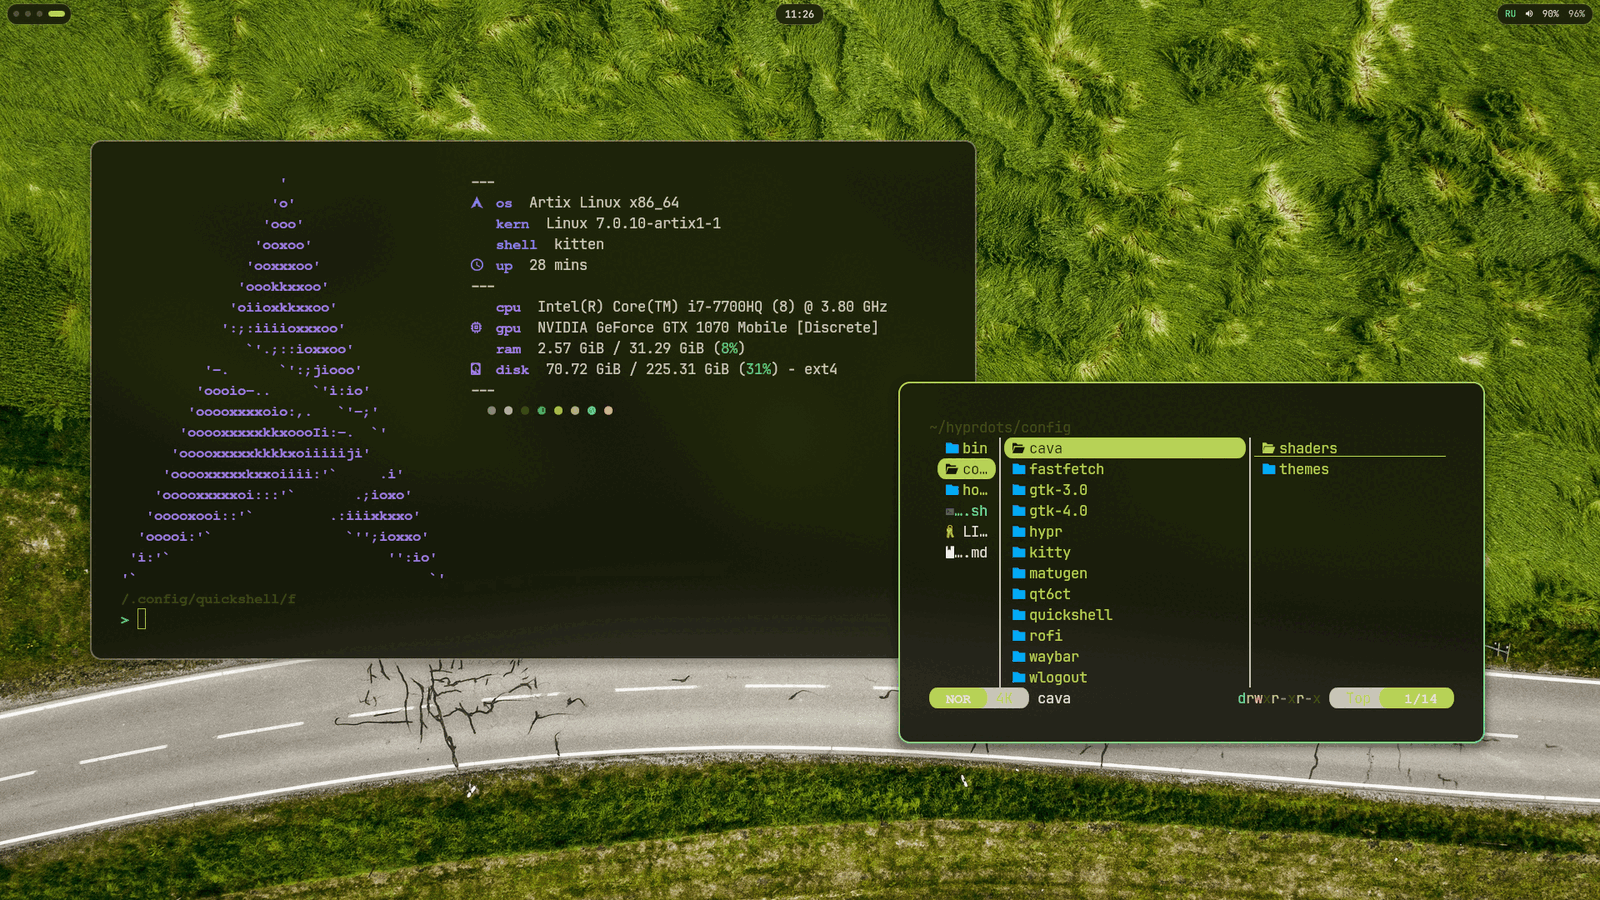
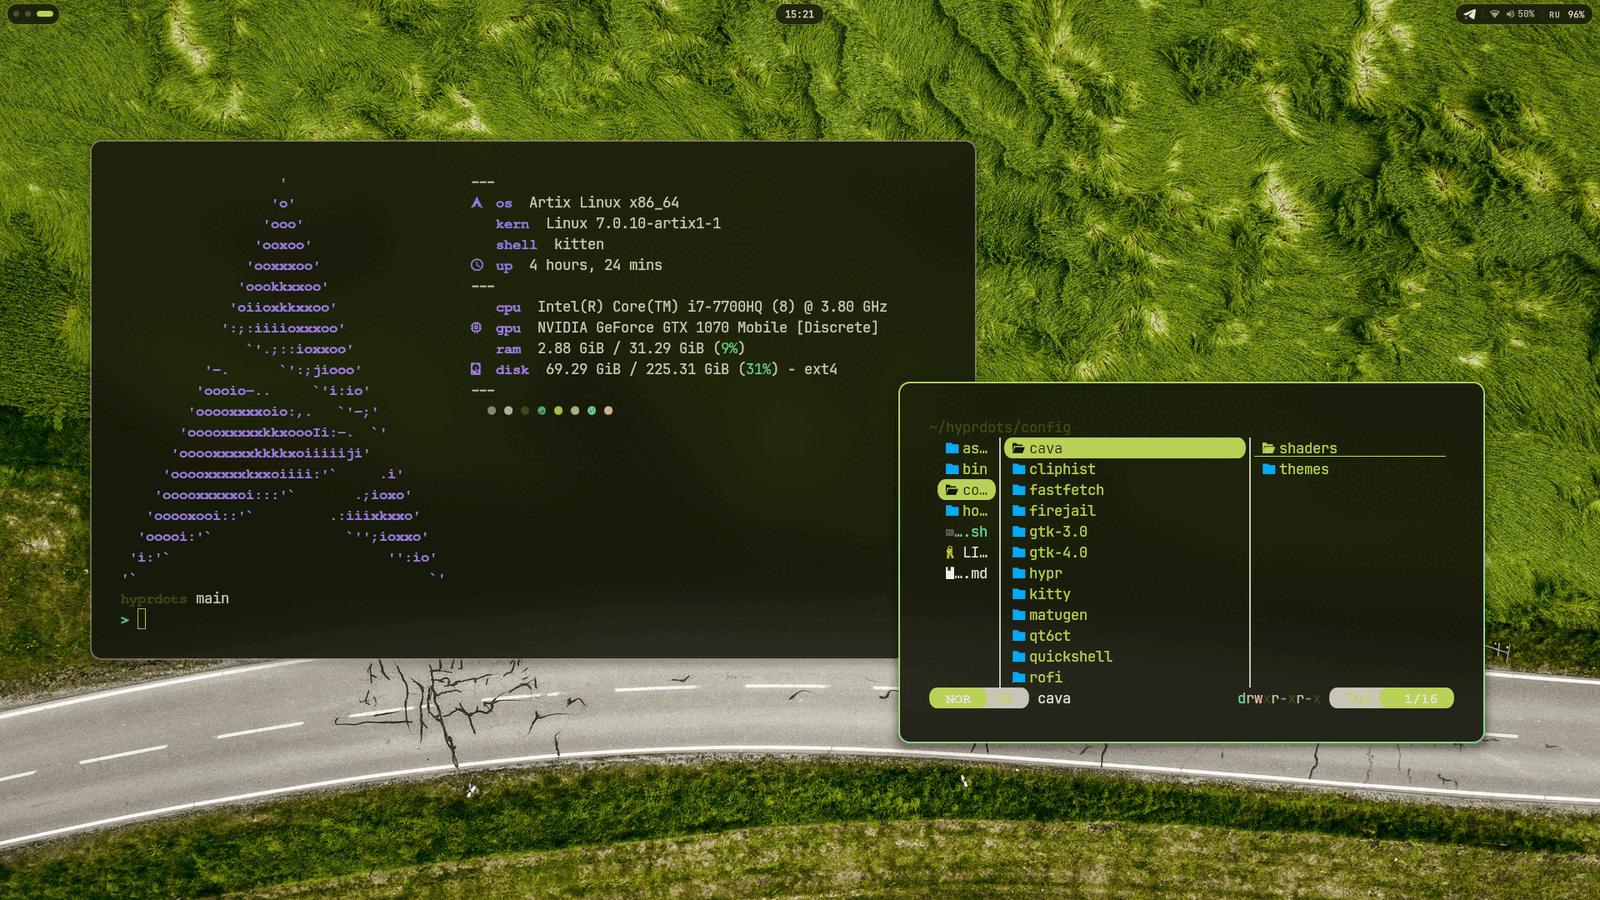
Idle timer with an inhibit list, Wi-Fi throughput, fresh screenshots
hypridle locks after 50 minutes and blanks the panels five minutes later.
Both go through idle-guard.sh, which stands down for fullscreen windows,
uncorked audio, an active recording, or any process named in a personal
inhibit list. Only the example list is tracked; the working copy is
gitignored so nobody has to publish what they run.

The Wi-Fi panel now shows the negotiated link rate and live throughput read
straight from sysfs counters, sampled once a second and only while the panel
is on screen.

Screenshots redone against the current bar, with the Wi-Fi and power menu
panels added.

diff --git a/config/quickshell/f/Network.qml b/config/quickshell/f/Network.qml
@@ -15,6 +15,21 @@ Singleton {
     property bool busy: false
     property string error: ""
 
+    // Link rate as negotiated with the access point, e.g. "72 Mbit/s".
+    property string linkRate: ""
+
+    // Live throughput, sampled only while something is watching.
+    property string iface: ""
+    property bool sampling: false
+    property real rxRate: 0
+    property real txRate: 0
+
+    function human(bytes) {
+        if (bytes >= 1048576) return (bytes / 1048576).toFixed(1) + " МБ/с";
+        if (bytes >= 1024)    return Math.round(bytes / 1024) + " КБ/с";
+        return Math.round(bytes) + " Б/с";
+    }
+
     readonly property string glyph: {
         if (!radio) return "";
         if (!connected) return "";
@@ -40,7 +55,7 @@ Singleton {
 
     Process {
         id: scan
-        command: ["nmcli", "-t", "-f", "ACTIVE,SSID,SIGNAL,SECURITY", "device", "wifi"]
+        command: ["nmcli", "-t", "-f", "ACTIVE,SSID,SIGNAL,SECURITY,RATE", "device", "wifi"]
         stdout: StdioCollector {
             onStreamFinished: {
                 const seen = {};
@@ -58,7 +73,10 @@ Singleton {
                         secured: f[3].trim() !== ""
                     };
                     if (entry.ssid === "") continue;
-                    if (entry.active) active = entry;
+                    if (entry.active) {
+                        active = entry;
+                        root.linkRate = f.length > 4 ? f[4].trim() : "";
+                    }
                     // Same SSID can appear once per band or access point:
                     // keep the strongest reading, but never lose the fact
                     // that one of them is the connection we are on.
@@ -79,6 +97,7 @@ Singleton {
                 root.connected = active !== null;
                 root.ssid = active ? active.ssid : "";
                 root.strength = active ? active.strength : 0;
+                if (!root.connected) root.linkRate = "";
             }
         }
     }
@@ -94,6 +113,67 @@ Singleton {
     function refresh() {
         radioState.running = true;
         scan.running = true;
+        ifaceProc.running = true;
+    }
+
+    Process {
+        id: ifaceProc
+        command: ["nmcli", "-t", "-f", "DEVICE,TYPE,STATE", "device", "status"]
+        stdout: StdioCollector {
+            onStreamFinished: {
+                for (const line of text.trim().split("\n")) {
+                    const f = root.fields(line);
+                    if (f.length >= 3 && f[1] === "wifi" && f[2] === "connected") {
+                        root.iface = f[0];
+                        return;
+                    }
+                }
+                root.iface = "";
+            }
+        }
+    }
+
+    // Counters come straight from sysfs; one read per second is cheaper than
+    // any monitoring daemon, and it only runs while the panel is open.
+    property real lastRx: -1
+    property real lastTx: -1
+
+    Process {
+        id: traffic
+        stdout: StdioCollector {
+            onStreamFinished: {
+                const n = text.trim().split("\n").map(v => parseFloat(v));
+                if (n.length < 2 || isNaN(n[0])) return;
+                if (root.lastRx >= 0) {
+                    root.rxRate = Math.max(0, n[0] - root.lastRx);
+                    root.txRate = Math.max(0, n[1] - root.lastTx);
+                }
+                root.lastRx = n[0];
+                root.lastTx = n[1];
+            }
+        }
+    }
+
+    Timer {
+        running: root.sampling && root.iface !== ""
+        interval: 1000
+        repeat: true
+        triggeredOnStart: true
+        onTriggered: {
+            traffic.command = ["cat",
+                "/sys/class/net/" + root.iface + "/statistics/rx_bytes",
+                "/sys/class/net/" + root.iface + "/statistics/tx_bytes"];
+            traffic.running = true;
+        }
+    }
+
+    onSamplingChanged: {
+        if (!sampling) {
+            lastRx = -1;
+            lastTx = -1;
+            rxRate = 0;
+            txRate = 0;
+        }
     }
 
     Component.onCompleted: refresh()

diff --git a/config/quickshell/f/WifiPanel.qml b/config/quickshell/f/WifiPanel.qml
@@ -18,6 +18,8 @@ Scope {
             Network.refresh();
             Network.rescan();
         }
+        // Throughput is only sampled while the panel is actually on screen.
+        Network.sampling = shown;
     }
 
     function bars(strength) {
@@ -111,11 +113,36 @@ Scope {
 
                         Text {
                             visible: Network.connected
-                            text: "сигнал " + Network.strength + "%"
+                            text: {
+                                const parts = ["сигнал " + Network.strength + "%"];
+                                if (Network.linkRate !== "") parts.push(Network.linkRate);
+                                return parts.join("  ·  ");
+                            }
                             color: Colors.fgDim
                             opacity: 0.6
                             font.family: "JetBrainsMono Nerd Font"
                             font.pixelSize: 10
+                        }
+
+                        Row {
+                            visible: Network.connected
+                            spacing: 10
+
+                            Text {
+                                text: "↓ " + Network.human(Network.rxRate)
+                                color: Colors.fgDim
+                                opacity: 0.85
+                                font.family: "JetBrainsMono Nerd Font"
+                                font.pixelSize: 10
+                            }
+
+                            Text {
+                                text: "↑ " + Network.human(Network.txRate)
+                                color: Colors.fgDim
+                                opacity: 0.5
+                                font.family: "JetBrainsMono Nerd Font"
+                                font.pixelSize: 10
+                            }
                         }
                     }
 

diff --git a/README.md b/README.md
@@ -22,7 +22,15 @@ recolour themselves around it.
 </tr>
 <tr>
 <td align="center"><sub>launcher — <code>Super</code> + <code>D</code></sub></td>
-<td align="center"><sub>audio panel — <code>Super</code> + <code>Shift</code> + <code>M</code></sub></td>
+<td align="center"><sub>audio — <code>Super</code> + <code>Shift</code> + <code>M</code></sub></td>
+</tr>
+<tr>
+<td><img src="assets/wifi.png" alt="Wi-Fi panel"></td>
+<td><img src="assets/power.png" alt="Power menu"></td>
+</tr>
+<tr>
+<td align="center"><sub>Wi-Fi — <code>Super</code> + <code>N</code></sub></td>
+<td align="center"><sub>power — <code>Super</code> + <code>P</code></sub></td>
 </tr>
 </table>
 
@@ -99,6 +107,17 @@ if the wallpaper has changed since the last run, so the lock screen always shows
 is on the desktop right now — blurred, dimmed, behind a frosted card with the clock, the date, the
 keyboard layout, uptime and battery.
 
+### Idle
+
+`hypridle` locks the session after 50 minutes without input and turns the panels off five minutes
+later. Both actions go through `config/hypr/scripts/idle-guard.sh`, which refuses to fire while a
+window is fullscreen, audio is genuinely playing (uncorked, not merely holding the device open), a
+recording is running, or any process named in `~/.config/hypr/idle-inhibit.list` is alive.
+
+That list is matched against process names with `pgrep -x`, one per line. Only
+`idle-inhibit.list.example` is tracked; copy it and add whatever should keep your own screen awake
+— the working copy is deliberately kept out of the repository.
+
 ### Power menu
 
 `Super`+`P` opens a native Quickshell menu: the clock, uptime and battery over five tiles — lock,
@@ -161,7 +180,7 @@ button on each, and the list of input devices — click one to make it the defau
 `Escape` closes the panel, `↑`/`↓` change the microphone level, `M` mutes it.
 
 Clicking the Wi-Fi glyph, or `Super`+`N`, opens the network panel: the current connection with its
-signal level, a radio toggle and the list of access points. Picking a secured network opens a
+signal level, link rate and live throughput, a radio toggle and the list of access points. Picking a secured network opens a
 password field, clicking the active one disconnects. It drives `nmcli` and refreshes off
 `nmcli monitor` events.
 
@@ -252,6 +271,8 @@ ttf-jetbrains-mono-nerd · zsh
 
 **AUR:** quickshell · matugen-bin · wlogout · wf-recorder · wl-clip-persist
 
+Also `hypridle` for the idle timer.
+
 On Artix, install the service packages for your init system (`-openrc`, `-runit`, `-s6`) instead of
 the systemd variants.
 
@@ -338,6 +359,17 @@ cd hyprdots
 размытые и притемнённые, поверх них матовая карточка с часами, датой, раскладкой клавиатуры,
 аптаймом и зарядом батареи.
 
+### Простой
+
+`hypridle` блокирует сессию после 50 минут без ввода и через пять минут гасит экраны. Оба действия
+идут через `config/hypr/scripts/idle-guard.sh`: он не сработает, пока открыто полноэкранное окно,
+реально играет звук (именно играет, а не просто держит устройство), идёт запись экрана или запущен
+любой процесс из `~/.config/hypr/idle-inhibit.list`.
+
+Список сверяется с именами процессов через `pgrep -x`, по одному в строке. В репозитории лежит
+только `idle-inhibit.list.example` — скопируй его и допиши, что должно держать твой экран
+включённым; рабочая копия намеренно не отслеживается.
+
 ### Меню выключения
 
 `Super`+`P` открывает меню Quickshell: часы, аптайм и заряд батареи над пятью плитками —
@@ -392,7 +424,7 @@ cd hyprdots
 берут только проблемные состояния — отвалившийся Wi-Fi или выключенный микрофон.
 
 Клик по значку Wi-Fi (или `Super`+`N`) открывает панель сетей: текущее подключение с уровнем
-сигнала, переключатель радио, список точек. Клик по защищённой сети открывает поле пароля, клик по
+сигнала, скоростью канала и живым трафиком, переключатель радио, список точек. Клик по защищённой сети открывает поле пароля, клик по
 активной — отключает. Всё через `nmcli`, состояние обновляется по событиям `nmcli monitor`. Индикатор раскладки (`EN` / `RU` / `UA` …) следует за `Alt`+`Shift`, по
 нему же можно кликнуть, чтобы переключить раскладку.
 
@@ -486,6 +518,8 @@ wl-clipboard · grim · slurp · satty · hyprpicker · ffmpeg · imagemagick ·
 ttf-jetbrains-mono-nerd · zsh
 
 **AUR:** quickshell · matugen-bin · wlogout · wf-recorder · wl-clip-persist
+
+Also `hypridle` for the idle timer.
 
 На Artix ставьте пакеты служб под свою систему инициализации (`-openrc`, `-runit`, `-s6`) вместо
 systemd-вариантов.
